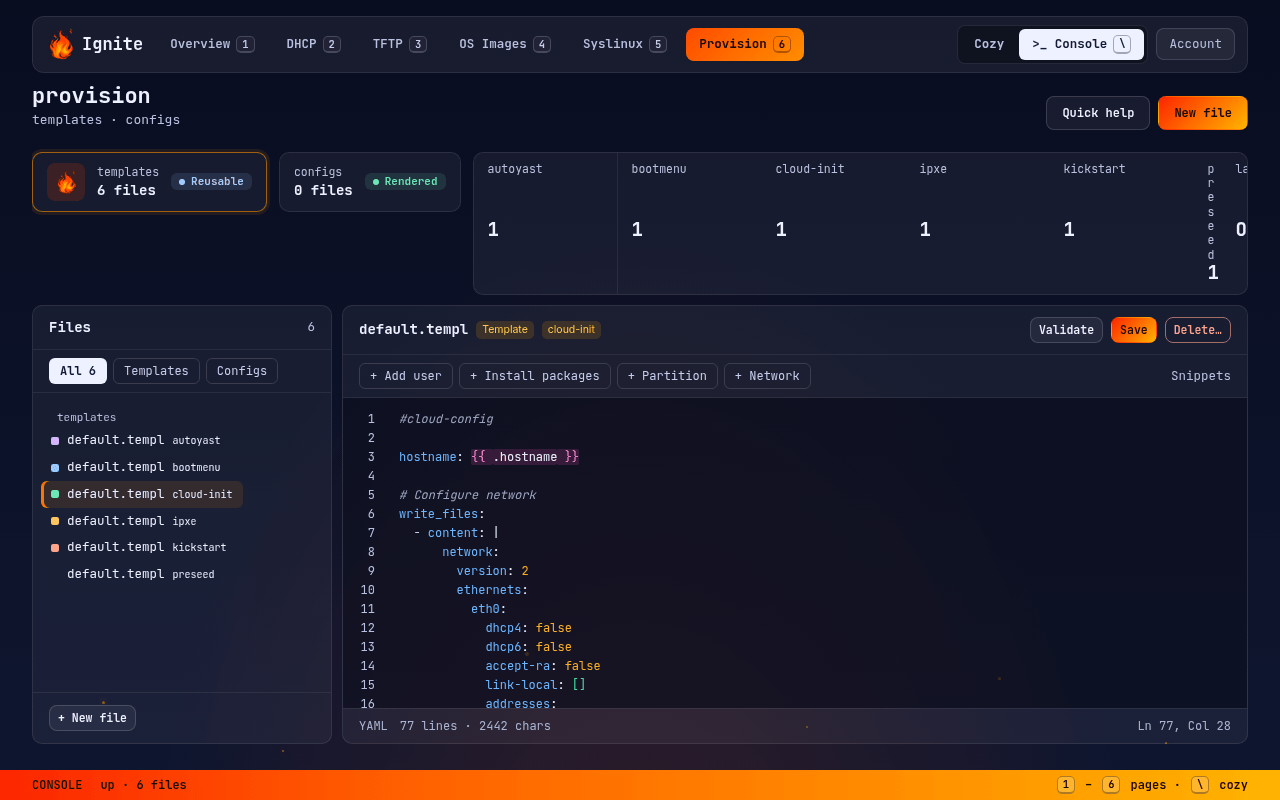
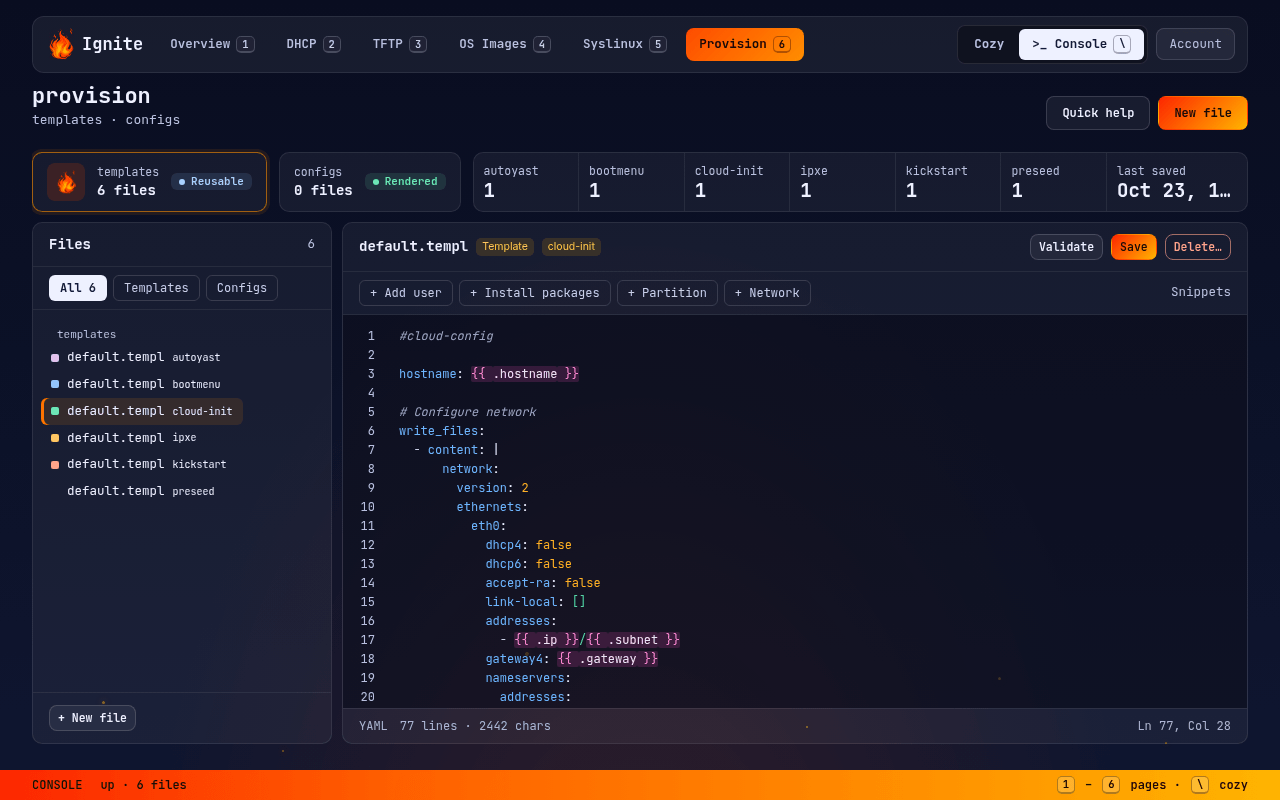
Keep the provision counts on one row.
Category cells share the strip equally and Last saved keeps a wider column, with the label on the number. The strip matches the height of the tiles beside it.

diff --git a/public/http/css/includes.css b/public/http/css/includes.css
@@ -809,19 +809,61 @@ html[data-theme="console"] .chip { border-radius: 6px; }
   grid-template-columns: max-content max-content minmax(0, 1fr);
   gap: 12px;
   margin-top: 12px;
-  align-items: start;
+  align-items: stretch;
 }
+/* One row beside the tiles: equal category cells, then a wider Last saved.
+   Labels stay on one line; a tight cell ellipsizes instead of breaking letters. */
 .prov-top .stats.strip {
-  grid-template-columns: repeat(auto-fit, minmax(9rem, 1fr));
-}
-.prov-top .stat {
+  display: grid;
+  grid-auto-flow: row;
+  grid-template-columns: minmax(0, 1fr) minmax(8rem, 8.75rem);
+  grid-template-rows: minmax(0, 1fr);
+  align-items: stretch;
+  height: 100%;
   min-width: 0;
-  overflow: hidden;
 }
-.prov-top .stat-title {
-  white-space: normal;
-  overflow-wrap: anywhere;
-  line-height: 1.25;
+.prov-top .stats.strip > :not([hidden]) ~ :not([hidden]) {
+  border: 0;
+}
+.prov-top .prov-cats {
+  display: grid;
+  grid-auto-flow: column;
+  grid-auto-columns: minmax(0, 1fr);
+  min-width: 0;
+  height: 100%;
+}
+.prov-top .prov-cats > .stat,
+.prov-top .stat-saved {
+  display: flex;
+  flex-direction: column;
+  justify-content: center;
+  gap: 1px;
+  min-width: 0;
+  width: auto;
+  height: 100%;
+  overflow: hidden;
+  padding: 8px 10px !important;
+}
+.prov-top .prov-cats > .stat {
+  border-inline-end: 1px solid rgba(255, 255, 255, 0.07);
+}
+.prov-top .stat-saved {
+  border-inline-end: 0;
+}
+.prov-top .stat-title,
+.prov-top .stat-value {
+  display: block;
+  width: 100%;
+  max-width: 100%;
+  margin: 0;
+  white-space: nowrap;
+  overflow: hidden;
+  text-overflow: ellipsis;
+  overflow-wrap: normal;
+  word-break: normal;
+}
+.prov-top .stat-value {
+  line-height: 1.15;
 }
 .os-top { display: grid; grid-template-columns: minmax(180px, 1fr) minmax(180px, 1fr) minmax(0, 2.4fr); gap: 12px; margin-top: 12px; }
 .dl-row {

diff --git a/handlers/ui_render_test.go b/handlers/ui_render_test.go
@@ -463,6 +463,9 @@ func TestPagesRenderThemesFromMode(t *testing.T) {
 	if strings.Contains(prov, "previewFile(") || strings.Contains(prov, ">Preview<") {
 		t.Error("provision preview button still renders")
 	}
+	if !strings.Contains(prov, `class="prov-cats"`) || !strings.Contains(prov, `stat stat-saved`) || !strings.Contains(prov, "Last saved") {
+		t.Error("provision strip is missing the category row or Last saved cell")
+	}
 	formAt := strings.Index(prov, `id="provision-editor-form"`)
 	if formAt < 0 {
 		t.Fatal("provision editor form missing")
